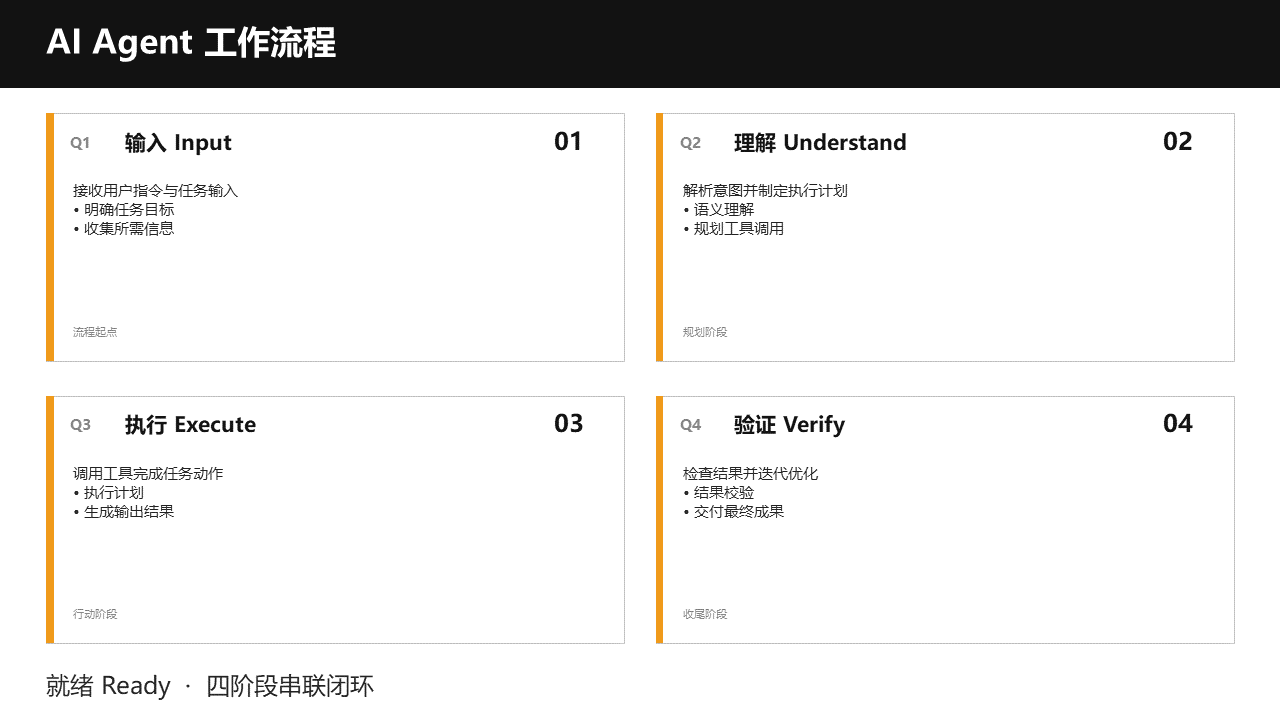
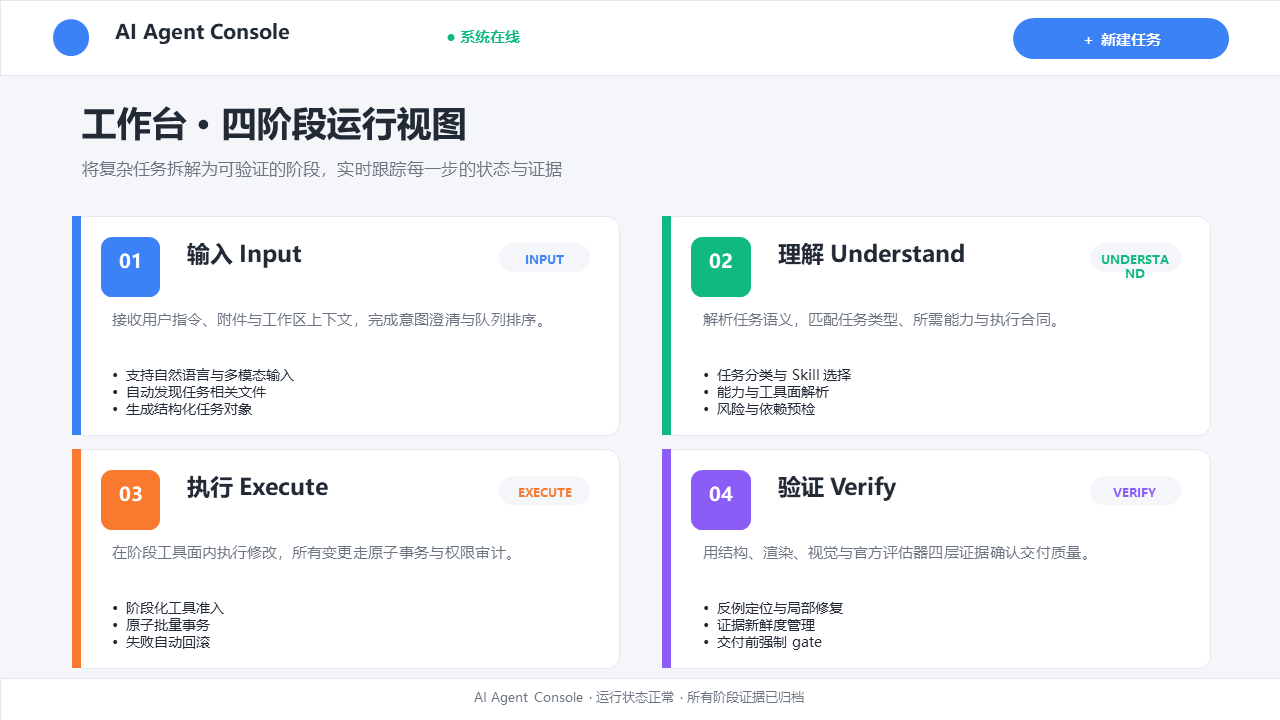
AI Agent workflow v2: richer native flow page and HTML-dashboard page

diff --git a/benchmarks/manual_tasks/ai-agent-workflow/build_deck_v2.py b/benchmarks/manual_tasks/ai-agent-workflow/build_deck_v2.py
@@ -1,0 +1,169 @@
+"""Build a richer, visually varied 2-page AI Agent workflow deck.
+
+Page 1: native PPTX shapes — dark hero, 5-step horizontal flow, delivery bar.
+Page 2: HTML-dashboard style — top bar, 2x2 cards, badges, metric chips, footer.
+"""
+from pathlib import Path
+from pptx import Presentation
+from pptx.util import Inches, Pt, Emu
+from pptx.dml.color import RGBColor
+from pptx.enum.shapes import MSO_SHAPE, MSO_CONNECTOR
+from pptx.enum.text import PP_ALIGN, MSO_ANCHOR
+from pptx.oxml.ns import qn
+
+OUT = Path(r"E:\project\agent\xiaopu\workspace\iteration_runs\tasks\ai-agent-workflow\output\ai_agent_workflow.pptx")
+OUT.parent.mkdir(parents=True, exist_ok=True)
+
+NAVY = RGBColor(0x10, 0x1B, 0x2D)
+NAVY2 = RGBColor(0x18, 0x2A, 0x44)
+WHITE = RGBColor(0xFF, 0xFF, 0xFF)
+MUTED = RGBColor(0xB8, 0xC4, 0xD6)
+AMBER = RGBColor(0xF5, 0xB3, 0x41)
+INK = RGBColor(0x22, 0x2A, 0x35)
+GRAY = RGBColor(0x6B, 0x74, 0x80)
+PAPER = RGBColor(0xF4, 0xF6, 0xF9)
+CARD = RGBColor(0xFF, 0xFF, 0xFF)
+BORDER = RGBColor(0xE3, 0xE8, 0xEE)
+BLUE = RGBColor(0x3B, 0x82, 0xF6)
+GREEN = RGBColor(0x10, 0xB9, 0x81)
+ORANGE = RGBColor(0xF9, 0x7A, 0x2E)
+PURPLE = RGBColor(0x8B, 0x5C, 0xF6)
+RED = RGBColor(0xEF, 0x44, 0x44)
+
+prs = Presentation()
+prs.slide_width = Inches(13.333)
+prs.slide_height = Inches(7.5)
+BLANK = prs.slide_layouts[6]
+
+
+def add_rect(slide, x, y, w, h, fill, line=None, round_=False, radius=0.12):
+    shape_type = MSO_SHAPE.ROUNDED_RECTANGLE if round_ else MSO_SHAPE.RECTANGLE
+    sh = slide.shapes.add_shape(shape_type, Inches(x), Inches(y), Inches(w), Inches(h))
+    sh.fill.solid()
+    sh.fill.fore_color.rgb = fill
+    if line is None:
+        sh.line.fill.background()
+    else:
+        sh.line.color.rgb = line
+        sh.line.width = Pt(0.75)
+    sh.shadow.inherit = False
+    if round_:
+        try:
+            sh.adjustments[0] = radius
+        except Exception:
+            pass
+    return sh
+
+
+def add_text(slide, x, y, w, h, text, size, color, bold=False, align=PP_ALIGN.LEFT,
+             font="Microsoft YaHei", anchor=MSO_ANCHOR.TOP, line_spacing=1.0):
+    box = slide.shapes.add_textbox(Inches(x), Inches(y), Inches(w), Inches(h))
+    tf = box.text_frame
+    tf.word_wrap = True
+    tf.vertical_anchor = anchor
+    lines = text.split("\n")
+    for i, line in enumerate(lines):
+        p = tf.paragraphs[0] if i == 0 else tf.add_paragraph()
+        p.alignment = align
+        p.line_spacing = line_spacing
+        run = p.add_run()
+        run.text = line
+        run.font.size = Pt(size)
+        run.font.bold = bold
+        run.font.color.rgb = color
+        run.font.name = font
+    return box
+
+
+def add_arrow(slide, x1, y1, x2, y2, color):
+    conn = slide.shapes.add_connector(MSO_CONNECTOR.STRAIGHT, Inches(x1), Inches(y1), Inches(x2), Inches(y2))
+    conn.line.color.rgb = color
+    conn.line.width = Pt(2.0)
+    ln = conn.line._get_or_add_ln()
+    ln.append(ln.makeelement(
+        "{http://schemas.openxmlformats.org/drawingml/2006/main}headEnd",
+        {"type": "arrow", "w": "med", "len": "med"},
+    ))
+    return conn
+
+
+# ----------------------------------------------------------------------------- page 1
+s1 = prs.slides.add_slide(BLANK)
+add_rect(s1, 0, 0, 13.333, 7.5, NAVY)
+add_rect(s1, 0, 0, 13.333, 0.10, AMBER)
+add_text(s1, 0.9, 0.55, 11.5, 0.4, "AI AGENT · WORKFLOW OVERVIEW", 12, AMBER, True)
+add_text(s1, 0.9, 0.95, 11.5, 1.1, "AI Agent 工作流程", 42, WHITE, True)
+add_text(s1, 0.9, 2.05, 11.5, 0.6, "从任务输入到可验证交付的六阶段闭环，每一步都沉淀为可审计证据", 18, MUTED)
+
+steps = [
+    ("01", "输入 Input", "接收指令、文件与上下文"),
+    ("02", "理解 Understand", "任务分类、能力匹配与计划"),
+    ("03", "规划 Plan", "生成执行合同与工具面"),
+    ("04", "执行 Execute", "工具调用、事务与沙箱"),
+    ("05", "验证 Verify", "结构、渲染、视觉与评估器"),
+]
+x0, y0, w, h, gap = 0.75, 3.35, 2.12, 2.55, 0.24
+for i, (num, title, desc) in enumerate(steps):
+    x = x0 + i * (w + gap)
+    add_rect(s1, x, y0, w, h, NAVY2, line=RGBColor(0x2C, 0x3E, 0x5E), round_=True, radius=0.10)
+    chip = add_rect(s1, x + 0.18, y0 + 0.18, 0.52, 0.52, AMBER, round_=True, radius=0.5)
+    tf = chip.text_frame
+    tf.word_wrap = False
+    p = tf.paragraphs[0]
+    p.alignment = PP_ALIGN.CENTER
+    run = p.add_run(); run.text = num
+    run.font.size = Pt(13); run.font.bold = True; run.font.color.rgb = NAVY
+    add_text(s1, x + 0.16, y0 + 0.90, w - 0.32, 0.45, title, 15, WHITE, True)
+    add_text(s1, x + 0.16, y0 + 1.45, w - 0.32, 0.95, desc, 11.5, MUTED, line_spacing=1.05)
+    if i < len(steps) - 1:
+        add_arrow(s1, x + w + 0.035, y0 + h / 2, x + w + gap - 0.035, y0 + h / 2, AMBER)
+
+add_rect(s1, 0.75, 6.35, 11.83, 0.62, NAVY2, line=RGBColor(0x2C, 0x3E, 0x5E), round_=True, radius=0.5)
+add_text(s1, 0.95, 6.47, 11.4, 0.4, "INPUT → UNDERSTAND → PLAN → EXECUTE → VERIFY → DELIVER", 13, AMBER, True, PP_ALIGN.CENTER)
+
+# ----------------------------------------------------------------------------- page 2
+s2 = prs.slides.add_slide(BLANK)
+add_rect(s2, 0, 0, 13.333, 7.5, PAPER)
+add_rect(s2, 0, 0, 13.333, 0.78, CARD, line=BORDER)
+add_rect(s2, 0.55, 0.20, 0.38, 0.38, BLUE, round_=True, radius=0.5)
+add_text(s2, 1.10, 0.16, 3.0, 0.45, "AI Agent Console", 15, INK, True)
+add_text(s2, 4.55, 0.24, 2.2, 0.35, "● 系统在线", 11, GREEN, True)
+btn = add_rect(s2, 10.55, 0.19, 2.25, 0.42, BLUE, round_=True, radius=0.5)
+add_text(s2, 10.55, 0.26, 2.25, 0.30, "＋ 新建任务", 11.5, WHITE, True, PP_ALIGN.CENTER)
+
+add_text(s2, 0.75, 1.02, 11.8, 0.55, "工作台 · 四阶段运行视图", 26, INK, True)
+add_text(s2, 0.75, 1.60, 11.8, 0.4, "将复杂任务拆解为可验证的阶段，实时跟踪每一步的状态与证据", 13, GRAY)
+
+cards = [
+    ("INPUT", "输入 Input", "01", BLUE,
+     "接收用户指令、附件与工作区上下文，完成意图澄清与队列排序。",
+     ["支持自然语言与多模态输入", "自动发现任务相关文件", "生成结构化任务对象"]),
+    ("UNDERSTAND", "理解 Understand", "02", GREEN,
+     "解析任务语义，匹配任务类型、所需能力与执行合同。",
+     ["任务分类与 Skill 选择", "能力与工具面解析", "风险与依赖预检"]),
+    ("EXECUTE", "执行 Execute", "03", ORANGE,
+     "在阶段工具面内执行修改，所有变更走原子事务与权限审计。",
+     ["阶段化工具准入", "原子批量事务", "失败自动回滚"]),
+    ("VERIFY", "验证 Verify", "04", PURPLE,
+     "用结构、渲染、视觉与官方评估器四层证据确认交付质量。",
+     ["反例定位与局部修复", "证据新鲜度管理", "交付前强制 gate"]),
+]
+positions = [(0.75, 2.25), (6.90, 2.25), (0.75, 4.68), (6.90, 4.68)]
+cw, ch = 5.70, 2.28
+for (tag, title, num, accent, desc, bullets), (cx, cy) in zip(cards, positions):
+    add_rect(s2, cx, cy, cw, ch, CARD, line=BORDER, round_=True, radius=0.06)
+    add_rect(s2, cx, cy, 0.09, ch, accent)
+    add_rect(s2, cx + 0.30, cy + 0.22, 0.62, 0.62, accent, round_=True, radius=0.18)
+    add_text(s2, cx + 0.30, cy + 0.30, 0.62, 0.45, num, 14, WHITE, True, PP_ALIGN.CENTER)
+    add_text(s2, cx + 1.10, cy + 0.20, 3.2, 0.40, title, 17, INK, True)
+    tag_pill = add_rect(s2, cx + cw - 1.25, cy + 0.28, 0.95, 0.30, PAPER, round_=True, radius=0.5)
+    add_text(s2, cx + cw - 1.25, cy + 0.32, 0.95, 0.22, tag, 9, accent, True, PP_ALIGN.CENTER)
+    add_text(s2, cx + 0.32, cy + 0.94, cw - 0.64, 0.62, desc, 11.5, GRAY, line_spacing=1.05)
+    bullet_text = "\n".join("•  " + b for b in bullets)
+    add_text(s2, cx + 0.32, cy + 1.52, cw - 0.64, 0.66, bullet_text, 10.5, INK, line_spacing=1.02)
+
+add_rect(s2, 0, 7.06, 13.333, 0.44, CARD, line=BORDER)
+add_text(s2, 0.75, 7.13, 11.8, 0.3, "AI Agent Console · 运行状态正常 · 所有阶段证据已归档", 10, GRAY, False, PP_ALIGN.CENTER)
+
+prs.save(OUT)
+print("saved", OUT, "slides", len(prs.slides))
